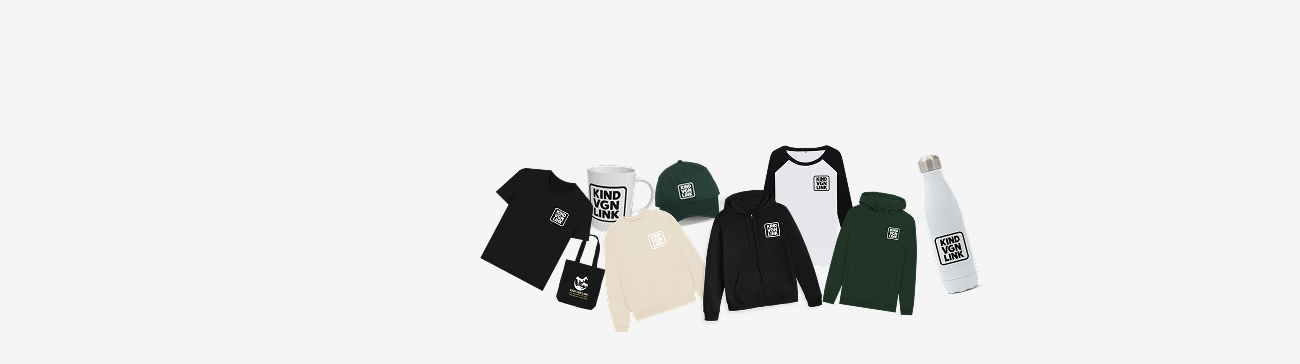
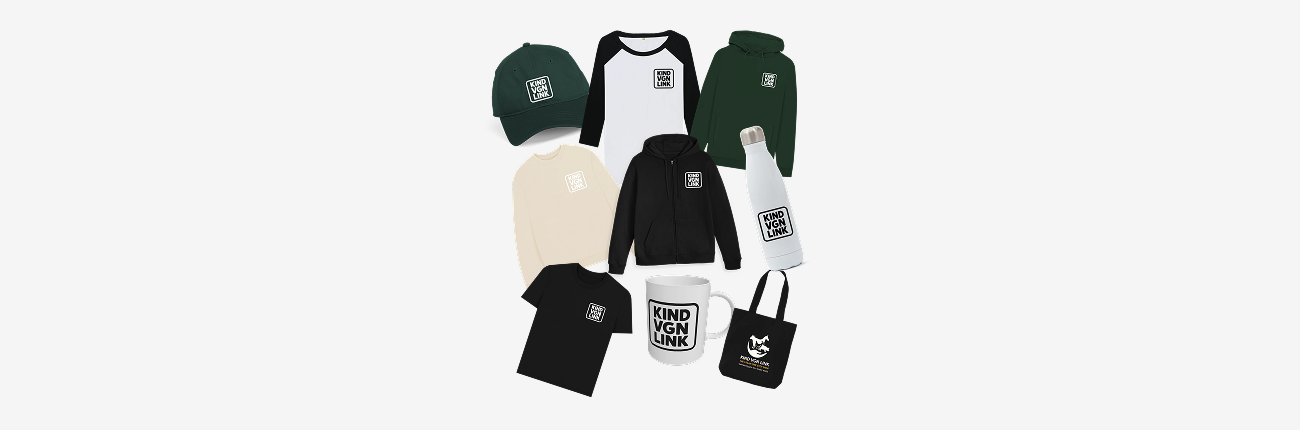
Update merch page and mobile hero images

Changed region(s): [[0.3692, 0.0604, 0.7692, 0.9368]]

diff --git a/merch.html b/merch.html
@@ -543,7 +543,7 @@
     <!-- Merch Hero Section -->
     <section class="merch-hero" style="position: relative; min-height: 500px; overflow: hidden; background: linear-gradient(135deg, #7a8a6a 0%, #5a6b4a 100%);">
         <img src="images/merch/hero-shop1.png" alt="Kind VGN Link Merch" class="hero-image-desktop" style="position: absolute; top: 0; left: 0; width: 100%; height: 100%; object-fit: cover; z-index: 1;">
-        <img src="images/merch/small-hero-shop1.png" alt="Kind VGN Link Merch" class="hero-image-mobile" style="position: absolute; top: 0; left: 0; width: 100%; height: 100%; object-fit: cover; z-index: 1; display: none;">
+        <img src="images/merch/small-hero-shop.png" alt="Kind VGN Link Merch" class="hero-image-mobile" style="position: absolute; top: 0; left: 0; width: 100%; height: 100%; object-fit: cover; z-index: 1; display: none;">
         <div style="position: absolute; top: 0; left: 0; right: 0; bottom: 0; background: rgba(122, 138, 106, 0.7); z-index: 2;"></div>
         <div class="container" style="position: relative; z-index: 3; text-shadow: 2px 2px 4px rgba(0, 0, 0, 0.8); padding-top: 3rem;">
             <h1>Kind VGN Link Merch</h1>
